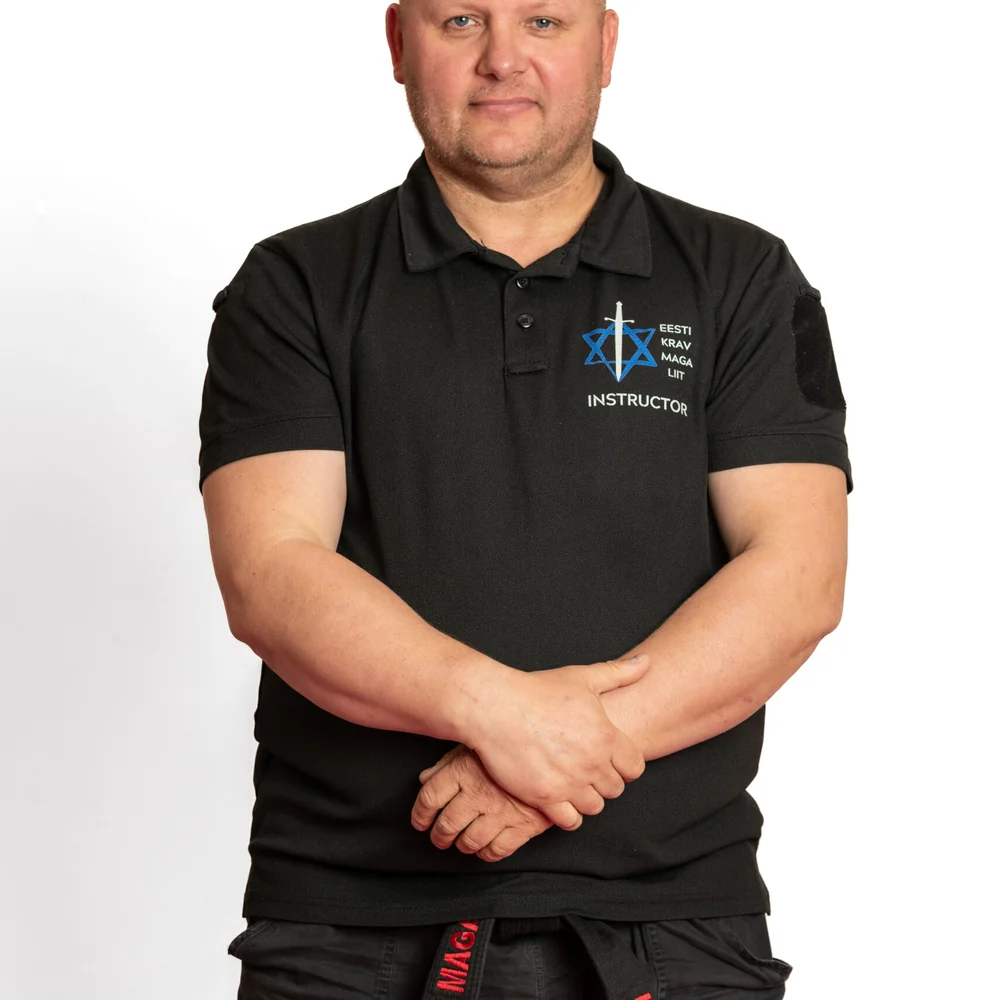
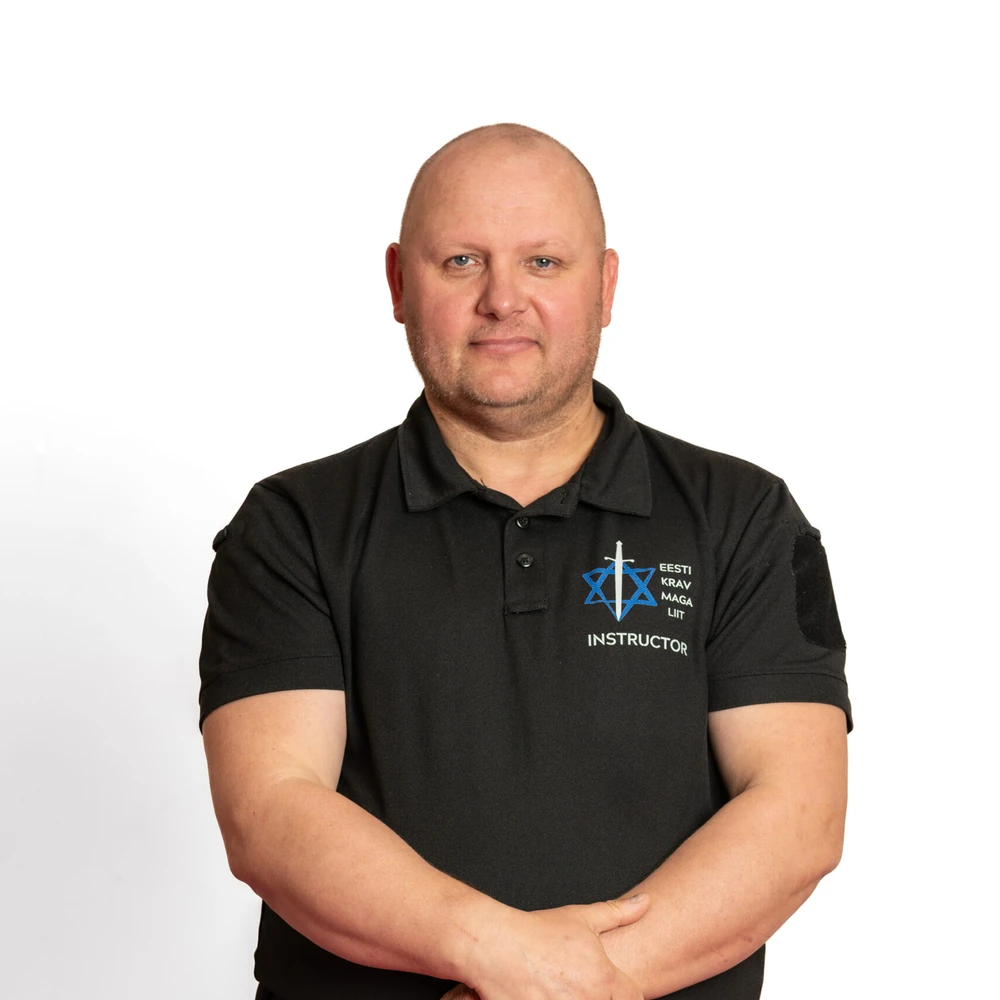
fix: refine Academy children and instructor presentation

diff --git a/akadeemia-443/lastele/index.html b/akadeemia-443/lastele/index.html
@@ -4,7 +4,7 @@
   <meta charset="utf-8">
   <meta name="viewport" content="width=device-width, initial-scale=1">
   <title>Laste krav maga | Eesti Krav Maga Akadeemia</title>
-  <meta name="description" content="Mänguline, aktiivne ja eakohane krav maga alates 5. eluaastast. Regulaarseid lasterühmi praegu ei toimu. Andke oma huvist teada.">
+  <meta name="description" content="Mänguline, aktiivne ja eakohane krav maga lastele alates 5. eluaastast. Küsi sobiva treeningrühma kohta.">
   <meta name="robots" content="noindex, nofollow, noarchive, nosnippet">
   <meta name="googlebot" content="noindex, nofollow, noarchive, nosnippet">
   <link rel="canonical" href="https://www.tt24.ee/akadeemia-443/lastele/">
@@ -12,9 +12,9 @@
   <meta property="og:locale" content="et_EE">
   <meta property="og:type" content="website">
   <meta property="og:title" content="Laste krav maga | Eesti Krav Maga Akadeemia">
-  <meta property="og:description" content="Mänguline, aktiivne ja eakohane krav maga lastele. Regulaarseid lasterühmi praegu ei toimu.">
+  <meta property="og:description" content="Mänguline, aktiivne ja eakohane krav maga lastele. Küsi sobiva treeningrühma kohta.">
   <meta property="og:url" content="https://www.tt24.ee/akadeemia-443/lastele/">
-  <meta property="og:image" content="https://www.tt24.ee/akadeemia-443/assets/children-training.jpg">
+  <meta property="og:image" content="https://www.tt24.ee/akadeemia-443/assets/children-training.webp">
   <meta name="twitter:card" content="summary_large_image">
   <meta name="theme-color" content="#13251e">
   <link rel="icon" type="image/webp" href="../assets/logo.webp">
@@ -32,7 +32,7 @@
         "@id": "https://www.tt24.ee/akadeemia-443/lastele/#webpage",
         "url": "https://www.tt24.ee/akadeemia-443/lastele/",
         "name": "Laste krav maga | Eesti Krav Maga Akadeemia",
-        "description": "Mänguline, aktiivne ja eakohane krav maga alates 5. eluaastast. Regulaarseid lasterühmi praegu ei toimu.",
+        "description": "Mänguline, aktiivne ja eakohane krav maga lastele alates 5. eluaastast.",
         "inLanguage": "et-EE",
         "isPartOf": {"@id": "https://www.tt24.ee/akadeemia-443/#website"},
         "about": {"@id": "https://www.tt24.ee/akadeemia-443/lastele/#service"}
@@ -48,12 +48,14 @@
       {
         "@type": "FAQPage",
         "mainEntity": [
-          {"@type":"Question","name":"Kas lasterühmad on praegu aktiivsed?","acceptedAnswer":{"@type":"Answer","text":"Ei. Hetkeseisul regulaarseid lasterühmi ei toimu. Huvi saab kirja panna e-posti teel."}},
+          {"@type":"Question","name":"Kas laste treeningud toimuvad?","acceptedAnswer":{"@type":"Answer","text":"Jah. Laste treeningud toimuvad. Sobiva rühma kohta saab küsida e-posti või telefoni teel."}},
           {"@type":"Question","name":"Millises vanuses lapsed saavad osaleda?","acceptedAnswer":{"@type":"Answer","text":"Krav maga sobib lastele alates 5. eluaastast. Vanemate teismeliste puhul hinnatakse sobivat treeningvormi individuaalselt."}},
-          {"@type":"Question","name":"Kas praegu saab tulla proovitrenni?","acceptedAnswer":{"@type":"Answer","text":"Laste proovitrenni võimalus ei ole praegu kinnitatud, sest regulaarseid lasterühmi ei toimu."}},
-          {"@type":"Question","name":"Kus ja millal treeningud toimuvad?","acceptedAnswer":{"@type":"Answer","text":"Regulaarsete lasterühmade asukoht ja ajagraafik ei ole praegu kinnitatud."}},
-          {"@type":"Question","name":"Mis on hind?","acceptedAnswer":{"@type":"Answer","text":"Kehtiv hinnakiri ei ole sellel ülevaatuse lehel kinnitatud. Küsige teavet e-posti või telefoni teel."}},
-          {"@type":"Question","name":"Kas lapsevanem võib treeningut jälgida?","acceptedAnswer":{"@type":"Answer","text":"Jah. Lapsevanem võib treeningut vaadata ja instruktorilt tagasisidet küsida."}}
+          {"@type":"Question","name":"Kas eelnev kogemus on vajalik?","acceptedAnswer":{"@type":"Answer","text":"Ei. Eelnevat kogemust ei nõuta. Krav maga sobib täiesti algajatele."}},
+          {"@type":"Question","name":"Kas krav maga õpetab lapsi võitlema?","acceptedAnswer":{"@type":"Answer","text":"Ei. Krav maga lastele arendab teadlikkust, selget häälekasutust ja oskust ohust eemalduda. Treening on mänguline ja positiivne. Eesmärk ei ole agressiivsuse arendamine."}},
+          {"@type":"Question","name":"Kuidas aitab kiusamise vastu?","acceptedAnswer":{"@type":"Answer","text":"Lapsed harjutavad kehahoiakut, häälega piiri seadmist ja ohust eemaldumist. Füüsiline enesekaitse tuleb kasutusele alles siis, kui lahkumine ega abi otsimine pole võimalik."}},
+          {"@type":"Question","name":"Kus ja millal treeningud toimuvad?","acceptedAnswer":{"@type":"Answer","text":"Sobiva rühma, treeninguaja ja toimumiskoha kohta saad kõige värskema info e-posti või telefoni teel."}},
+          {"@type":"Question","name":"Millised on hinnad?","acceptedAnswer":{"@type":"Answer","text":"Hinnainfo saamiseks kirjuta info@krav-maga.ee või helista +372 56 996 191."}},
+          {"@type":"Question","name":"Kas lapsevanem võib treeningut jälgida?","acceptedAnswer":{"@type":"Answer","text":"Jah. Lapsevanemad võivad treeningut vaadata ja instruktorilt tagasisidet küsida."}}
         ]
       }
     ]
@@ -77,7 +79,7 @@
         <a href="#turvalisus">Turvalisus</a>
         <a href="#vanus">Vanus</a>
         <a href="#kkk">KKK</a>
-        <a class="header-cta" href="#kontakt">Anna oma huvist teada</a>
+        <a class="header-cta" href="#kontakt">Küsi sobiva rühma kohta</a>
       </nav>
     </div>
   </header>
@@ -88,14 +90,14 @@
         <div class="offer-hero-copy">
           <p class="eyebrow">Laste programm</p>
           <h1>Krav maga lastele</h1>
-          <p class="offer-hero-lead">Mänguline, aktiivne ja eale kohandatud treening, mis käsitleb olukordade mõistmist, häälekasutust ja eakohaseid kaitsevõtteid. Regulaarseid lasterühmi praegu ei toimu.</p>
+          <p class="offer-hero-lead">Mänguline, aktiivne ja eale kohandatud treening, mis arendab olukorrateadlikkust, hääle kasutamist ja praktilisi enesekaitseoskusi. Laste treeningud toimuvad.</p>
           <div class="offer-actions">
-            <a class="btn btn-primary" href="mailto:info@krav-maga.ee?subject=Huvi%20laste%20krav%20maga%20vastu">Anna oma huvist teada <span aria-hidden="true">→</span></a>
+            <a class="btn btn-primary" href="mailto:info@krav-maga.ee?subject=Huvi%20laste%20krav%20maga%20vastu">Küsi sobiva rühma kohta <span aria-hidden="true">→</span></a>
             <a class="btn btn-secondary" href="tel:&#43;3725699&#54;191">Helista Janekile</a>
           </div>
         </div>
         <figure class="offer-hero-media">
-          <img src="../assets/children-training.jpg" alt="Laste krav maga treening" width="434" height="159">
+          <img src="../assets/children-training.webp" alt="Laste Krav Maga treening" width="700" height="420">
         </figure>
       </div>
     </section>
@@ -103,7 +105,7 @@
     <section class="offer-status" aria-label="Lasterühmade hetkeseis">
       <div class="container offer-status-inner">
         <span class="offer-status-label">Hetkeseis</span>
-        <p>Regulaarseid lasterühmi praegu ei toimu. Huvi saab kirja panna aadressil info@krav-maga.ee. Samuti võib küsida lapse era- või peretreeningu võimaluse kohta.</p>
+        <p>Laste treeningud toimuvad. Sobiva rühma, treeninguaja ja toimumiskoha kohta saad kõige värskema info aadressil info@krav-maga.ee või telefonil +372 56 996 191.</p>
       </div>
     </section>
 
@@ -136,43 +138,53 @@
       </div>
     </section>
 
+    <section class="offer-section" id="enesekaitse" aria-labelledby="self-protect-title">
+      <div class="container">
+        <div class="offer-heading">
+          <div><p class="section-kicker">Enesekaitse, mitte võitlus</p><h2 id="self-protect-title">Laps õpib olukorras toime tulema, mitte vastu hakkama.</h2></div>
+          <p>Krav maga lastele arendab olukorrateadlikkust, selget häälekasutust ja ohust eemaldumise oskusi. Treening ei õpeta lapsi võitlema.</p>
+        </div>
+        <div class="offer-grid">
+          <article class="offer-card"><span class="offer-card-index">01</span><h3>Hääl ja piirid</h3><p>Selge häälega keeldumine, piiride seadmine ja enesekindel kehakeel.</p></article>
+          <article class="offer-card"><span class="offer-card-index">02</span><h3>Kiusamise vastu</h3><p>Harjutatakse, kuidas kiusamisele kehahoiaku, hääle ja selgete piiridega reageerida. Füüsilist enesekaitset kasutatakse alles siis, kui eemaldumine või abi otsimine ei ole võimalik.</p></article>
+          <article class="offer-card"><span class="offer-card-index">03</span><h3>Lahkumine ja abi</h3><p>Ohuolukorras eemalduda ja vajadusel täiskasvanu abi otsida.</p></article>
+        </div>
+      </div>
+    </section>
+
     <section class="offer-section offer-section-paper" id="vanus" aria-labelledby="age-title">
       <div class="container offer-split">
-        <div><p class="section-kicker">Vanus ja sobiv vorm</p><h2 id="age-title">Alates 5. eluaastast.</h2><p>Vanemate teismeliste puhul hinnatakse sobivat treeningvormi individuaalselt. Kui regulaarset rühma ei ole, võib küsida lapse era- või peretreeningu kohta.</p></div>
+        <div><p class="section-kicker">Vanus ja sobiv vorm</p><h2 id="age-title">Alates 5. eluaastast.</h2><p>Vanemate teismeliste puhul hinnatakse sobivat treeningvormi individuaalselt. Lapsele sobiva rühma või personaaltreeningu kohta saab küsida otse instruktorilt.</p></div>
         <div class="offer-review-note"><h3>Lapsevanem on kaasatud</h3><p>Lapsevanem võib treeningut vaadata, küsida instruktorilt tagasisidet ja toetada last treeningute vahel.</p></div>
       </div>
     </section>
 
-    <section class="offer-section" aria-labelledby="review-title">
-      <div class="container offer-split">
-        <div><p class="section-kicker">Aus hetkeseis</p><h2 id="review-title">Leht ei luba seda, mida pole veel kinnitatud.</h2><p>Regulaarse lasterühma käivitamine vajab enne avalikku pakkumist selget ajakava, asukohta, hinda ja vastutavat instruktorit.</p></div>
-        <aside class="offer-review-note" aria-label="Ülevaatuse märkus"><h3>Fredi ja Janeki ülevaatuseks</h3><p>Palun kinnitage:</p><ul><li>kas ja millal lasterühmad uuesti algavad;</li><li>täpsed vanusevahemikud;</li><li>toimumiskoht ja ajagraafik;</li><li>hinnakiri ning proovitrenni võimalus;</li><li>kes laste treeninguid juhendab;</li><li>kas pakutakse koolidele või rühmadele eraldi koolitusi.</li></ul></aside>
-      </div>
-    </section>
 
     <section class="offer-section offer-section-paper" id="kkk" aria-labelledby="faq-title">
       <div class="container offer-faq">
         <div><p class="section-kicker">KKK</p><h2 id="faq-title">Lapsevanema küsimused.</h2></div>
         <div class="faq-list">
-          <article class="faq-item"><button class="faq-question" type="button" aria-expanded="false"><span>Kas lasterühmad praegu toimuvad?</span><span class="faq-icon" aria-hidden="true"></span></button><div class="faq-answer"><p>Ei. Regulaarseid lasterühmi praegu ei toimu. Huvi saab kirja panna e-posti teel.</p></div></article>
+          <article class="faq-item"><button class="faq-question" type="button" aria-expanded="false"><span>Kas laste treeningud toimuvad?</span><span class="faq-icon" aria-hidden="true"></span></button><div class="faq-answer"><p>Jah. Laste treeningud toimuvad. Sobiva rühma kohta saab küsida e-posti või telefoni teel.</p></div></article>
           <article class="faq-item"><button class="faq-question" type="button" aria-expanded="false"><span>Millises vanuses lapsed saavad osaleda?</span><span class="faq-icon" aria-hidden="true"></span></button><div class="faq-answer"><p>Krav maga sobib lastele alates 5. eluaastast. Vanemate teismeliste puhul hinnatakse sobivat treeningvormi individuaalselt.</p></div></article>
-          <article class="faq-item"><button class="faq-question" type="button" aria-expanded="false"><span>Kas praegu saab tulla proovitrenni?</span><span class="faq-icon" aria-hidden="true"></span></button><div class="faq-answer"><p>Proovitrenni võimalus lastele ei ole praegu kinnitatud, sest regulaarseid lasterühmi ei toimu.</p></div></article>
-          <article class="faq-item"><button class="faq-question" type="button" aria-expanded="false"><span>Kus ja millal treeningud toimuvad?</span><span class="faq-icon" aria-hidden="true"></span></button><div class="faq-answer"><p>Regulaarsete lasterühmade asukoht ja ajagraafik ei ole praegu kinnitatud. Era- või peretreeningu üksikasjad lepitakse kokku eraldi.</p></div></article>
-          <article class="faq-item"><button class="faq-question" type="button" aria-expanded="false"><span>Mis on hind?</span><span class="faq-icon" aria-hidden="true"></span></button><div class="faq-answer"><p>Kehtiv hinnakiri ei ole sellel ülevaatuse lehel kinnitatud. Küsige teavet e-posti või telefoni teel.</p></div></article>
-          <article class="faq-item"><button class="faq-question" type="button" aria-expanded="false"><span>Kas lapsevanem võib treeningut jälgida?</span><span class="faq-icon" aria-hidden="true"></span></button><div class="faq-answer"><p>Jah. Lapsevanem võib treeningut vaadata ja instruktorilt tagasisidet küsida.</p></div></article>
+          <article class="faq-item"><button class="faq-question" type="button" aria-expanded="false"><span>Kas eelnev kogemus on vajalik?</span><span class="faq-icon" aria-hidden="true"></span></button><div class="faq-answer"><p>Ei. Eelnevat kogemust ei nõuta. Krav maga sobib täiesti algajatele.</p></div></article>
+          <article class="faq-item"><button class="faq-question" type="button" aria-expanded="false"><span>Kas krav maga õpetab lapsi võitlema?</span><span class="faq-icon" aria-hidden="true"></span></button><div class="faq-answer"><p>Ei. Krav maga lastele arendab teadlikkust, selget häälekasutust ja oskust ohust eemalduda. Treening on mänguline ja positiivne. Eesmärk ei ole agressiivsuse arendamine.</p></div></article>
+          <article class="faq-item"><button class="faq-question" type="button" aria-expanded="false"><span>Kuidas aitab kiusamise vastu?</span><span class="faq-icon" aria-hidden="true"></span></button><div class="faq-answer"><p>Lapsed harjutavad kehahoiakut, häälega piiri seadmist ja ohust eemaldumist. Füüsiline enesekaitse tuleb kasutusele alles siis, kui lahkumine ega abi otsimine pole võimalik.</p></div></article>
+          <article class="faq-item"><button class="faq-question" type="button" aria-expanded="false"><span>Kus ja millal treeningud toimuvad?</span><span class="faq-icon" aria-hidden="true"></span></button><div class="faq-answer"><p>Sobiva rühma, treeninguaja ja toimumiskoha kohta saad kõige värskema info e-posti või telefoni teel.</p></div></article>
+          <article class="faq-item"><button class="faq-question" type="button" aria-expanded="false"><span>Millised on hinnad?</span><span class="faq-icon" aria-hidden="true"></span></button><div class="faq-answer"><p>Hinnainfo saamiseks kirjuta info@krav-maga.ee või helista +372 56 996 191.</p></div></article>
+          <article class="faq-item"><button class="faq-question" type="button" aria-expanded="false"><span>Kas lapsevanem võib treeningut jälgida?</span><span class="faq-icon" aria-hidden="true"></span></button><div class="faq-answer"><p>Jah. Lapsevanemad võivad treeningut vaadata ja instruktorilt tagasisidet küsida.</p></div></article>
         </div>
       </div>
     </section>
 
     <section class="offer-final" id="kontakt" aria-labelledby="contact-title">
       <div class="container offer-final-grid">
-        <div><h2 id="contact-title">Andke oma huvist teada.</h2><p>Kirjutage, kui soovite teavet tulevaste lasterühmade või lapse era- ja peretreeningu võimaluste kohta.</p></div>
-        <div class="offer-actions"><a class="btn btn-primary" href="mailto:info@krav-maga.ee?subject=Huvi%20laste%20krav%20maga%20vastu">Kirjuta e-kiri</a><a class="btn btn-secondary" href="tel:&#43;3725699&#54;191">+372 5699 6191</a></div>
+        <div><h2 id="contact-title">Küsi lapsele sobiva treeningu kohta.</h2><p>Kirjuta või helista. Aitame leida lapsele sobiva rühma.</p></div>
+        <div class="offer-actions"><a class="btn btn-primary" href="mailto:info@krav-maga.ee?subject=Huvi%20laste%20krav%20maga%20vastu">Kirjuta e-kiri</a><a class="btn btn-secondary" href="tel:&#43;3725699&#54;191">+372 56 996 191</a></div>
       </div>
     </section>
   </main>
 
-  <footer class="site-footer"><div class="container footer-inner"><div class="footer-brand"><img src="../assets/logo.webp" alt="" width="40" height="40"><div><strong>Eesti Krav Maga Akadeemia</strong><span>Teadlikkus • Otsus • Tegutsemine</span></div></div><div class="footer-links"><a href="../">Avaleht</a><a href="mailto:info@krav-maga.ee">info@krav-maga.ee</a><a href="tel:&#43;3725699&#54;191">+372 5699 6191</a></div></div></footer>
+  <footer class="site-footer"><div class="container footer-inner"><div class="footer-brand"><img src="../assets/logo.webp" alt="" width="40" height="40"><div><strong>Eesti Krav Maga Akadeemia</strong><span>Teadlikkus • Otsus • Tegutsemine</span></div></div><div class="footer-links"><a href="../">Avaleht</a><a href="mailto:info@krav-maga.ee">info@krav-maga.ee</a><a href="tel:&#43;3725699&#54;191">+372 56 996 191</a></div></div></footer>
   <script src="../script.js" defer></script>
 </body>
 </html>

diff --git a/akadeemia-443/personaaltreening/index.html b/akadeemia-443/personaaltreening/index.html
@@ -51,7 +51,7 @@
           {"@type":"Question","name":"Kas eelnev kogemus on vajalik?","acceptedAnswer":{"@type":"Answer","text":"Ei. Eelnev võitlustreeningu kogemus ei ole vajalik."}},
           {"@type":"Question","name":"Kes saab personaaltreeningul osaleda?","acceptedAnswer":{"@type":"Answer","text":"Personaaltreeningut saab kokkuleppel korraldada täiskasvanule, lapsele või perele."}},
           {"@type":"Question","name":"Kus ja millal treening toimub?","acceptedAnswer":{"@type":"Answer","text":"Asukoht ja aeg lepitakse kokku pärast päringu saamist."}},
-          {"@type":"Question","name":"Mis on personaaltreeningu hind?","acceptedAnswer":{"@type":"Answer","text":"Kehtiv hind ei ole sellel ülevaatuse lehel veel kinnitatud. Küsige pakkumist e-posti või telefoni teel."}},
+          {"@type":"Question","name":"Mis on personaaltreeningu hind?","acceptedAnswer":{"@type":"Answer","text":"Hinnainfo saamiseks kirjutage või helistage."}},
           {"@type":"Question","name":"Kes treeningut juhendab?","acceptedAnswer":{"@type":"Answer","text":"Instruktor lepitakse kokku pärast päringu saamist vastavalt vajadusele ja võimalustele."}}
         ]
       }
@@ -140,7 +140,7 @@
       <div class="container">
         <div class="offer-heading">
           <div><p class="section-kicker">Kuidas alustada</p><h2 id="start-title">Kolm lihtsat sammu.</h2></div>
-          <p>Sellel ülevaatuse lehel kindlat paketti ei kinnitata. Esmalt selgitame välja, kellele ja milleks treeningut vajate.</p>
+          <p>Personaaltreening kujuneb osaleja vajaduse järgi. Esmalt selgitame välja, kellele ja milleks treeningut vajate.</p>
         </div>
         <div class="offer-steps">
           <article class="offer-step"><h3>Kirjeldage vajadust</h3><p>Kirjutage või helistage. Öelge, kellele treening on mõeldud ja mis on peamine soov.</p></article>
@@ -152,11 +152,10 @@
 
     <section class="offer-section" aria-labelledby="details-title">
       <div class="container offer-split">
-        <div><p class="section-kicker">Treener ja praktilised detailid</p><h2 id="details-title">Kõigepealt vajadus. Seejärel lahendus.</h2><p>Üksikasjad lepitakse kokku pärast päringu saamist, vastavalt vajadusele ja võimalustele.</p></div>
-        <aside class="offer-review-note" aria-label="Ülevaatuse märkus">
-          <h3>Fredi ja Janeki ülevaatuseks</h3>
-          <p>Enne avalikku kasutust vajavad kinnitamist:</p>
-          <ul><li>kehtiv hind ja tüüpiline kestus;</li><li>asukoht ning ajad;</li><li>kes personaaltreeninguid juhendab;</li><li>treeningu keeled;</li><li>broneerimisprotsess.</li></ul>
+        <div><p class="section-kicker">Treeningu ülesehitus</p><h2 id="details-title">Kõigepealt vajadus. Seejärel treening.</h2><p>Sisu, aeg, asukoht ja kestus lepitakse kokku vastavalt osaleja vajadusele ja võimalustele.</p></div>
+        <aside class="offer-review-note" aria-label="Personaaltreeningu eelised">
+          <h3>Fookus sellel, mida sina vajad</h3>
+          <p>Personaaltreening sobib, kui soovid keskenduda kindlale oskusele, harjutada omas tempos või treenida koos lapse või pereliikmega.</p>
         </aside>
       </div>
     </section>
@@ -168,7 +167,7 @@
           <article class="faq-item"><button class="faq-question" type="button" aria-expanded="false"><span>Kas eelnev kogemus on vajalik?</span><span class="faq-icon" aria-hidden="true"></span></button><div class="faq-answer"><p>Ei. Eelnev võitlustreeningu kogemus ei ole vajalik.</p></div></article>
           <article class="faq-item"><button class="faq-question" type="button" aria-expanded="false"><span>Kes saab osaleda?</span><span class="faq-icon" aria-hidden="true"></span></button><div class="faq-answer"><p>Personaaltreeningut saab kokkuleppel korraldada täiskasvanule, lapsele või perele.</p></div></article>
           <article class="faq-item"><button class="faq-question" type="button" aria-expanded="false"><span>Kus ja millal treening toimub?</span><span class="faq-icon" aria-hidden="true"></span></button><div class="faq-answer"><p>Asukoht ja aeg lepitakse kokku pärast päringu saamist.</p></div></article>
-          <article class="faq-item"><button class="faq-question" type="button" aria-expanded="false"><span>Mis on hind?</span><span class="faq-icon" aria-hidden="true"></span></button><div class="faq-answer"><p>Kehtiv hind ei ole sellel ülevaatuse lehel veel kinnitatud. Küsige pakkumist e-posti või telefoni teel.</p></div></article>
+          <article class="faq-item"><button class="faq-question" type="button" aria-expanded="false"><span>Mis on hind?</span><span class="faq-icon" aria-hidden="true"></span></button><div class="faq-answer"><p>Hinnainfo saamiseks kirjuta või helista.</p></div></article>
           <article class="faq-item"><button class="faq-question" type="button" aria-expanded="false"><span>Kes treeningut juhendab?</span><span class="faq-icon" aria-hidden="true"></span></button><div class="faq-answer"><p>Juhendaja täpsustatakse pärast päringu saamist vastavalt vajadusele ja võimalustele.</p></div></article>
         </div>
       </div>

diff --git a/akadeemia-443/ettevotetele/index.html b/akadeemia-443/ettevotetele/index.html
@@ -66,7 +66,7 @@
           {
             "@type": "Question",
             "name": "Kui kaua koolitus kestab?",
-            "acceptedAnswer": {"@type": "Answer", "text": "Koolituse täpset kestust ei ole sellel lehel kinnitatud. Lisage päringusse oma vajadus ja eelistatud ajavahemik."}
+            "acceptedAnswer": {"@type": "Answer", "text": "Koolituse kestus lepitakse kokku vastavalt eesmärgile, osalejate arvule ja soovitud sisule. Lisage päringusse oma vajadus ja eelistatud ajavahemik."}
           },
           {
             "@type": "Question",
@@ -267,7 +267,7 @@
           </div>
           <div class="faq-item">
             <button class="faq-question" type="button" aria-expanded="false" aria-controls="b2b-faq-4"><span>Kui kaua koolitus kestab?</span><span class="faq-icon" aria-hidden="true"></span></button>
-            <div class="faq-answer" id="b2b-faq-4"><div class="faq-answer-inner"><p>Koolituse täpset kestust ei ole sellel lehel kinnitatud. Lisage päringusse oma vajadus ja eelistatud ajavahemik.</p></div></div>
+            <div class="faq-answer" id="b2b-faq-4"><div class="faq-answer-inner"><p>Koolituse kestus lepitakse kokku vastavalt eesmärgile, osalejate arvule ja soovitud sisule. Lisage päringusse oma vajadus ja eelistatud ajavahemik.</p></div></div>
           </div>
           <div class="faq-item">
             <button class="faq-question" type="button" aria-expanded="false" aria-controls="b2b-faq-5"><span>Kas korraldate koolitusi ka väljaspool Tallinna?</span><span class="faq-icon" aria-hidden="true"></span></button>

diff --git a/akadeemia-443/index.html b/akadeemia-443/index.html
@@ -292,11 +292,11 @@
             </span>
           </a>
           <a class="program-card has-photo children-card" id="lastele" href="lastele/">
-            <img src="assets/children-training.jpg" alt="Krav Maga laste treening" loading="lazy" width="434" height="159">
+            <img src="assets/children-training.webp" alt="Krav Maga laste treening" loading="lazy" width="700" height="420">
             <span class="program-content">
               <span class="program-label">Lastele alates 5. eluaastast</span>
               <h3>Mänguline ja eakohane treening</h3>
-              <p>Regulaarseid lasterühmi praegu ei toimu. Huvi saab kirja panna või küsida era- ja peretreeningu kohta.</p>
+              <p>Laste treeningud toimuvad. Sobiva rühma kohta saab küsida e-posti või telefoni teel.</p>
               <span class="program-link">Vaata laste treeningute infot →</span>
             </span>
           </a>

diff --git a/akadeemia-443/assets/SOURCES.md b/akadeemia-443/assets/SOURCES.md
@@ -1,0 +1,7 @@
+# External image sources
+
+These images are used only in the noindex stakeholder-review prototype. Public availability does not itself grant a reusable license. Fred and Janek must confirm permission before public launch.
+
+- `mart.webp`: Mart Klamas. Official instructor page: https://www.kravmagaliit.ee/instructor/mart-klamas/ Original: https://www.kravmagaliit.ee/wp-content/uploads/2025/01/WST4612-scaled.jpg (1707 × 2560).
+- `kaspar.webp`: Kaspar Haavel. Official instructor page: https://www.kravmagaliit.ee/instructor/kaspar-haavel/ Original: https://www.kravmagaliit.ee/wp-content/uploads/2025/01/WST4574-scaled.jpg (1708 × 2560).
+- `children-training.webp`: Children’s Krav Maga training. Official children’s page: https://krav-maga.ee/lapsed/ Original: https://krav-maga.ee/wp-content/uploads/2018/09/jskm6.jpg (700 × 420).
